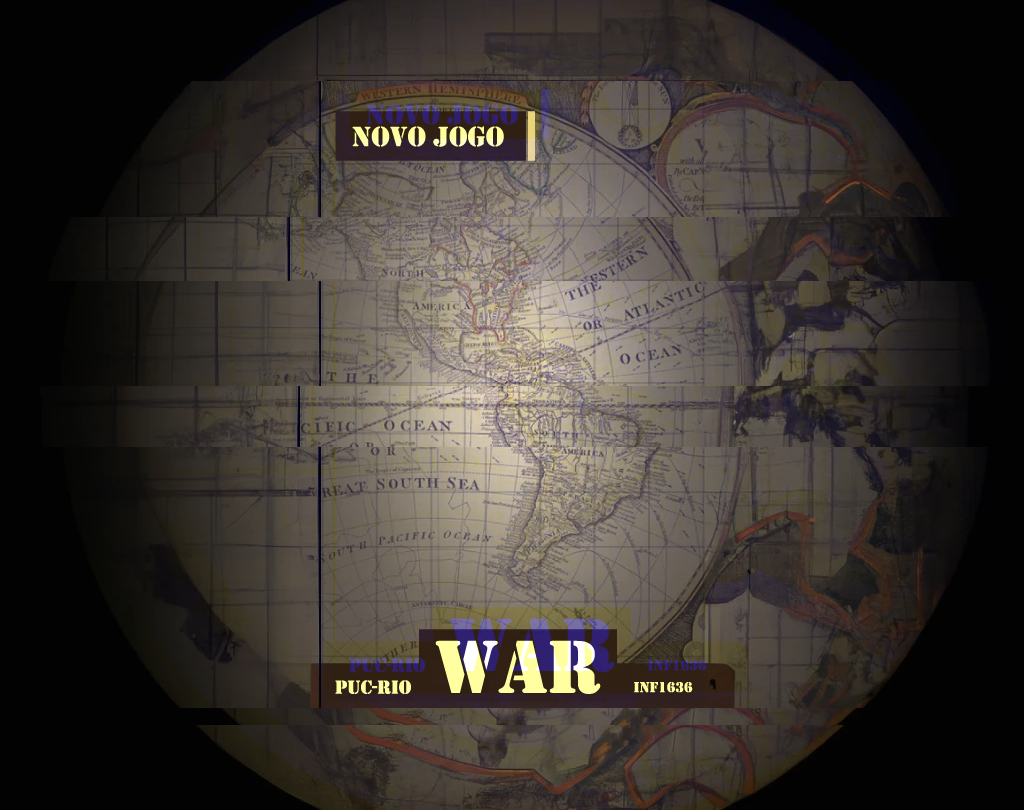
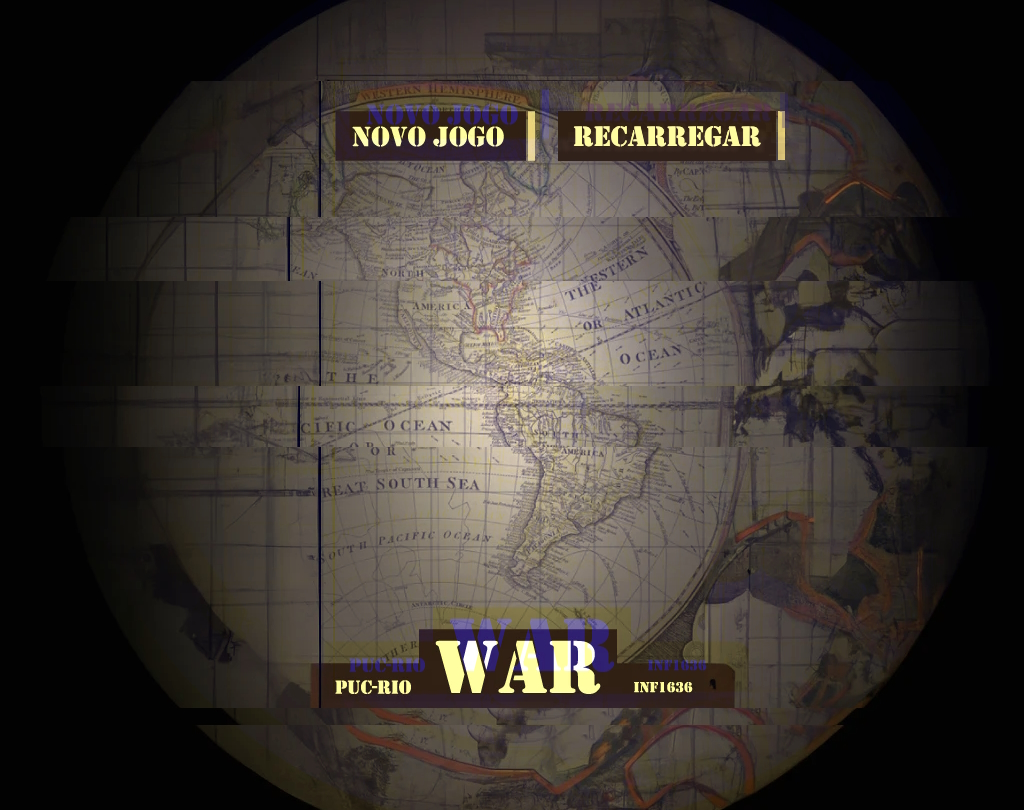
só ataca se selecioanr alguem valido

Changed region(s): [[0.5312, 0.1235, 0.7812, 0.216]]

diff --git a/src/model/ApiAttack.java b/src/model/ApiAttack.java
@@ -124,6 +124,13 @@ public class ApiAttack extends JFrame implements Observer {
                     String origem = (String) meusPaisesComboBox.getSelectedItem();
                     String alvo = (String) paisesFronteirasComboBox.getSelectedItem();
 
+                    // Verificar se o país de origem selecionado é válido
+                    System.out.println(alvo);
+                    if (alvo == null || alvo.equals("-")) {
+                        JOptionPane.showMessageDialog(null, "Selecione um país de origem válido.", "Erro", JOptionPane.ERROR_MESSAGE);
+                        return; // Sai do método se o país não for válido
+                    }
+
                     realizarAtaque(origem, alvo);
 
                     // Atualizar ComboBox de Meus Países após a conquista
@@ -328,7 +335,7 @@ public class ApiAttack extends JFrame implements Observer {
 
         // Adicionar apenas os territórios com mais de 1 tropa
         for (Pais territorio : jogadorAtual.getTerritoriosPossuidos()) {
-            if (territorio.getTropas() > 1) {
+            if (territorio.getTropas() > 1 && territorio.getFronteiras().length > 1) {
                 meusPaisesComboBox.addItem(territorio.getNome());
             }
         }

diff --git a/src/controller/Main.java b/src/controller/Main.java
@@ -22,7 +22,7 @@ public class Main {
         ApiAcess api = ApiAcess.getInstancia();
 
 
-        if (false) {
+        if (true) {
             System.out.println("\n********** JOGO INICIADO **********\n");
             InitGame view = new InitGame();
             JFrame frame;
